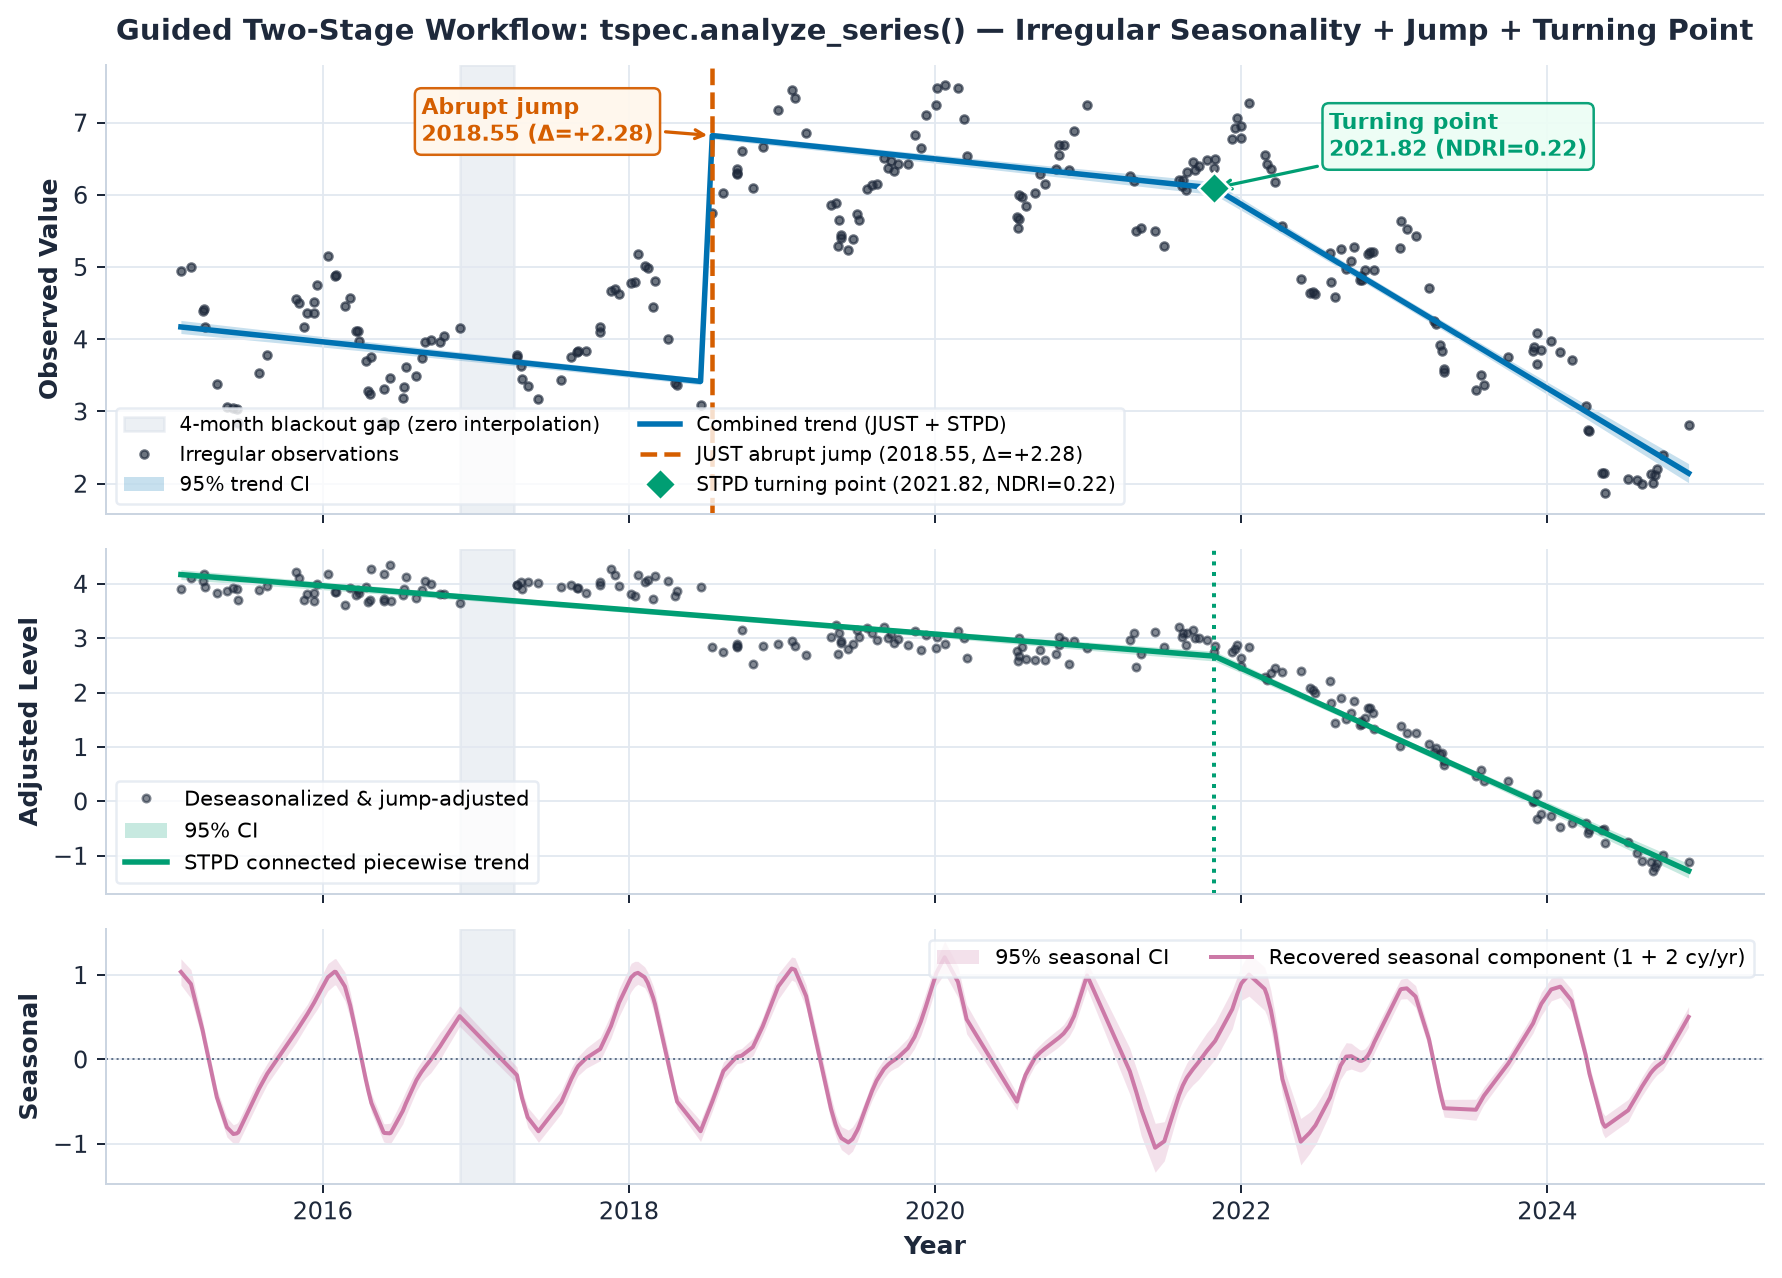
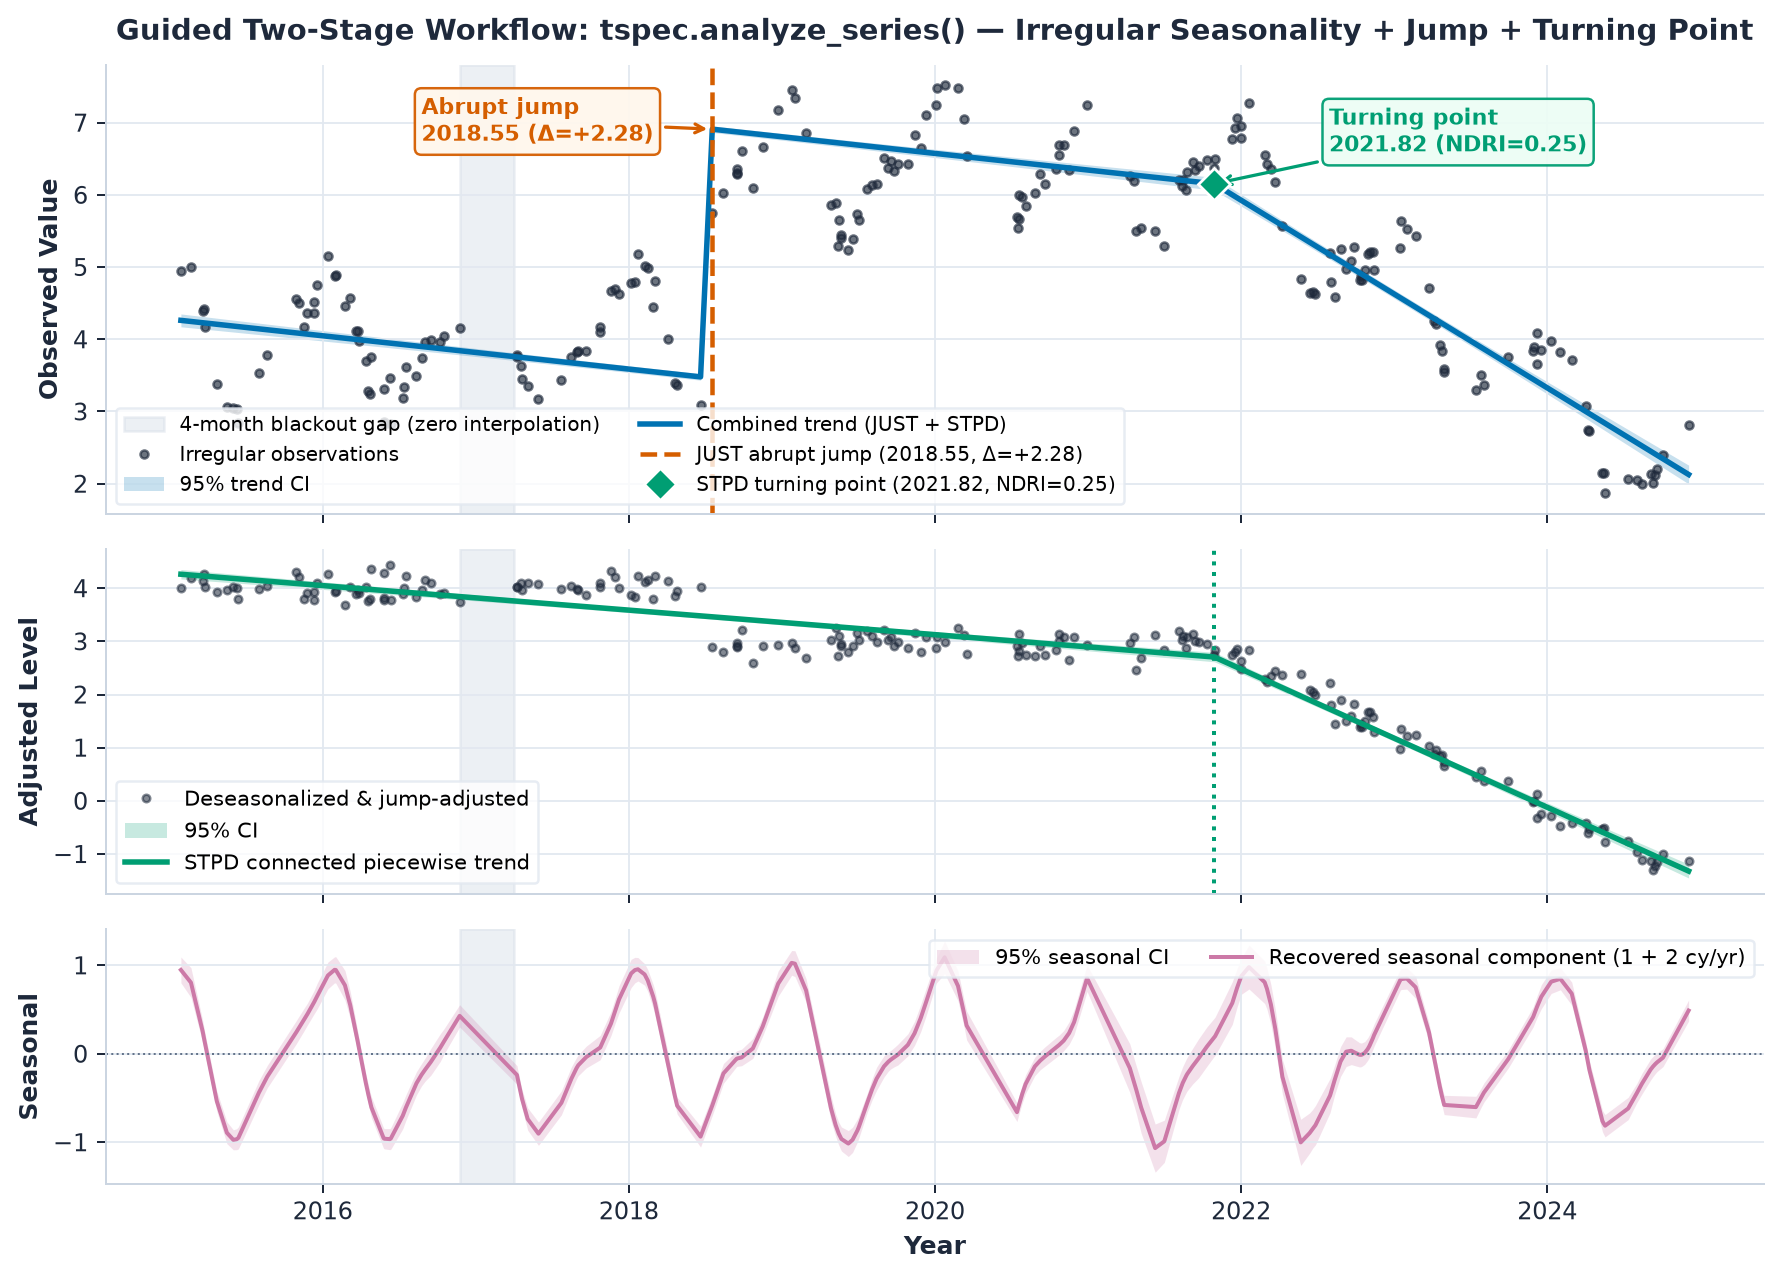
fix: eliminate irregular-grid seasonal sample-mean centering bias in just_decompose

diff --git a/src/tspec/just.py b/src/tspec/just.py
@@ -1449,11 +1449,14 @@ def _window_component_half_widths(
     is_obs_grid: bool = True,
     parity_mode: bool = False,
 ) -> tuple[FloatArray, FloatArray]:
-    """Compute pointwise Student-t half-widths for mean-shifted trend and centered seasonal.
+    """Compute pointwise Student-t half-widths for local trend and seasonal components.
 
-    Accounts exactly for the within-window zero-mean seasonal centering
-    (``trend_eff = trend + mean(seasonal)``, ``seasonal_eff = seasonal - mean(seasonal)``)
-    using the full parameter covariance ``cov`` from OLS/WLS or Huber/MM IRLS.
+    In ``parity_mode=True``, accounts for Ghaderpour's within-window sample-mean
+    seasonal shifting (``trend_eff = trend + mean(seasonal)``,
+    ``seasonal_eff = seasonal - mean(seasonal)``). In default mode
+    (``parity_mode=False``), pure sinusoidal harmonics already have analytical
+    cycle mean zero and are not sample-centered (preventing sampling-density
+    bias on irregular grids), so exact block covariances apply directly.
     """
     n_eval = int(t_eval.size)
     n_tr = 2 * (int(local_jumps.size) + 1)
@@ -1485,16 +1488,23 @@ def _window_component_half_widths(
         var_tr = np.maximum(0.0, np.sum((D_u @ cov) * D_u, axis=1))
         return t_crit * np.sqrt(var_tr), np.zeros(n_eval, dtype=np.float64)
 
+    D_tr = D_u[:, :n_tr]
     D_seas = D_u[:, n_tr:]
-    d_seas_mean = np.mean(D_seas, axis=0)
-    D_seas_cent = D_seas - d_seas_mean[None, :]
     cov_ss = cov[n_tr:, n_tr:]
-    var_seas = np.maximum(0.0, np.sum((D_seas_cent @ cov_ss) * D_seas_cent, axis=1))
 
-    D_tr_eff = np.empty_like(D_u)
-    D_tr_eff[:, :n_tr] = D_u[:, :n_tr]
-    D_tr_eff[:, n_tr:] = d_seas_mean[None, :]
-    var_tr = np.maximum(0.0, np.sum((D_tr_eff @ cov) * D_tr_eff, axis=1))
+    if parity_mode:
+        d_seas_mean = np.mean(D_seas, axis=0)
+        D_seas_cent = D_seas - d_seas_mean[None, :]
+        var_seas = np.maximum(0.0, np.sum((D_seas_cent @ cov_ss) * D_seas_cent, axis=1))
+
+        D_tr_eff = np.empty_like(D_u)
+        D_tr_eff[:, :n_tr] = D_tr
+        D_tr_eff[:, n_tr:] = d_seas_mean[None, :]
+        var_tr = np.maximum(0.0, np.sum((D_tr_eff @ cov) * D_tr_eff, axis=1))
+    else:
+        cov_tt = cov[:n_tr, :n_tr]
+        var_tr = np.maximum(0.0, np.sum((D_tr @ cov_tt) * D_tr, axis=1))
+        var_seas = np.maximum(0.0, np.sum((D_seas @ cov_ss) * D_seas, axis=1))
 
     return t_crit * np.sqrt(var_tr), t_crit * np.sqrt(var_seas)
 
@@ -1532,10 +1542,13 @@ def just_decompose(
     seasonality.
 
     Pointwise confidence intervals at level ``ci_level`` (default ``0.95``) are
-    computed analytically inside each window (accounting for zero-mean seasonal
-    centering) and blended across overlapping Gaussian windows via the
-    conservative Cauchy–Schwarz half-width blend so overlapping correlated
-    windows do not artificially shrink interval widths.
+    computed analytically inside each window and blended across overlapping
+    Gaussian windows via the conservative Cauchy–Schwarz half-width blend so
+    overlapping correlated windows do not artificially shrink interval widths.
+    In default mode (``parity_mode=False``), pure sinusoidal seasonal terms are
+    not sample-mean shifted onto the trend, eliminating seasonal-balance bias on
+    irregularly sampled timestamps (``parity_mode=True`` retains Ghaderpour's
+    sample-mean centering for exact upstream parity).
     """
     season_l = season.lower()
     if season_l not in ("allssa", "ols", "none"):
@@ -1775,9 +1788,10 @@ def just_decompose(
         win_freqs_list.append(freqs_w)
         season_t = _eval_seasonal(ty_loc, freqs_w, cs_coeff)
         trend_t = yy - season_t - rem_w
-        mean_s = float(np.mean(season_t))
-        trend_t = trend_t + mean_s
-        season_t = season_t - mean_s
+        if parity_mode:
+            mean_s = float(np.mean(season_t))
+            trend_t = trend_t + mean_s
+            season_t = season_t - mean_s
 
         hw_tr_w, hw_s_w = _window_component_half_widths(
             ty_loc,
@@ -1812,9 +1826,10 @@ def just_decompose(
                 ty_loc, tty_loc, local_j, tr_coeff, parity_mode=parity_mode
             )
             season_tt = _eval_seasonal(tty_loc, freqs_w, cs_coeff)
-            mean_s_tt = float(np.mean(season_tt))
-            trend_tt = trend_tt + mean_s_tt
-            season_tt = season_tt - mean_s_tt
+            if parity_mode:
+                mean_s_tt = float(np.mean(season_tt))
+                trend_tt = trend_tt + mean_s_tt
+                season_tt = season_tt - mean_s_tt
             hw_tr_tt, hw_s_tt = _window_component_half_widths(
                 ty_loc,
                 tty_loc,

diff --git a/tests/test_ci.py b/tests/test_ci.py
@@ -110,15 +110,19 @@ class TestJustDecomposeCI:
 
     def test_empirical_pointwise_coverage(self) -> None:
         rng = np.random.default_rng(2025)
-        t = np.linspace(2015.0, 2021.0, 120)
+        t = np.sort(rng.uniform(2015.0, 2021.0, 140))
         true_trend = 4.0 + 0.5 * (t - 2015.0)
         true_seas = 1.1 * np.cos(2 * np.pi * t) - 0.4 * np.sin(2 * np.pi * t)
-        true_seas -= np.mean(true_seas)
+
+        # Verify zero seasonal-balance bias on irregular grids in default mode
+        r_clean = just_decompose(t, true_trend + true_seas, season="ols", omega=[1.0])
+        np.testing.assert_allclose(r_clean.trend, true_trend, atol=1e-10)
+        np.testing.assert_allclose(r_clean.seasonal, true_seas, atol=1e-10)
 
         tr_hits = []
         s_hits = []
         for _ in range(80):
-            y = true_trend + true_seas + rng.normal(0.0, 0.3, t.size)
+            y = true_trend + true_seas + rng.normal(0.0, 0.35, t.size)
             res = just_decompose(t, y, season="ols", omega=[1.0], ci_level=0.95)
             assert res.trend_ci_low is not None and res.trend_ci_high is not None
             assert res.seasonal_ci_low is not None and res.seasonal_ci_high is not None

diff --git a/docs/guide/interpreting-results.md b/docs/guide/interpreting-results.md
@@ -49,7 +49,7 @@ Every trend, seasonal, and forecast estimator in `tspec` computes fast analytica
 
 | Function / Mode | Output Fields | Interval Formula |
 | :--- | :--- | :--- |
-| `just_decompose()` | `trend_ci_low/high`, `seasonal_ci_low/high` (plus `*_reg_ci_*` for `eval_times`) | Exact within-window Student-$t$ half-widths (accounting for zero-mean seasonal centering), combined across overlapping Gaussian windows via the conservative **Cauchy–Schwarz half-width blend**. |
+| `just_decompose()` | `trend_ci_low/high`, `seasonal_ci_low/high` (plus `*_reg_ci_*` for `eval_times`) | Exact within-window Student-$t$ half-widths (keeping pure zero-cycle-mean harmonics in default mode to avoid irregular-grid centering bias), blended across overlapping Gaussian windows via the conservative **Cauchy–Schwarz half-width blend**. |
 | `fit_piecewise_trend()` & `detect_turning_points()` | `trend_ci_low/high` on `PiecewiseTrendResult` | Exact $O(n)$ disjoint-support variance recursion for `mode="sequential"` (TPTR); exact $\mathbf{d}_i^T \widehat{\text{Cov}}\,\mathbf{d}_i$ for `mode="joint"` / `"huber"`; `None` for `mode="l1"`. |
 | `analyze_series()` | `trend_ci_low/high`, `decomposition.seasonal_ci_low/high`, and per-segment `slope_ci_low/high` | Exact analytical ribbons for `"ols"` and `"huber"`; **median-pivoted Sen/ATS slope-CI fans** (`MannKS` / Helsel convention) for `"sen"`; `None` for `"l1"`. |
 | `just_monitor()` | `forecast_ci_low/high` **and** `forecast_pi_low/high` | Inner band: mean forecast uncertainty (widens quadratically as forecast extrapolates past `start`). Outer band: out-of-sample observation **prediction interval** adding $\hat{\sigma}_{\text{his}}^2 / w_i$. |
@@ -57,6 +57,7 @@ Every trend, seasonal, and forecast estimator in `tspec` computes fast analytica
 !!! note "Statistical Interpretation & Caveats"
     - **Conditional pointwise bands:** Analytical intervals are **conditional on the detected breakpoints and selected seasonal frequencies** (post-selection breakpoint-location uncertainty is not folded into the analytical band). For heavily censored records, pair with `CensoredConfig(n_stability_draws=20)` to assess breakpoint stability.
     - **Autocorrelation:** Standard intervals assume independent residuals unless you supply an inverse-covariance weight matrix `weights = C_f^{-1}`. If `tspec` emits `MODERATE_AUTOCORRELATION` or `STRONG_AUTOCORRELATION`, analytical bands are optimistic (too narrow).
+    - **Theil–Sen bowtie fan (`slope_estimator="sen"`):** The plotted median-pivoted fan shows **slope uncertainty** (`seg.slope_ci_low/high`) around each segment's median point $(t_{\text{med}}, \hat{y}_{\text{med}})$—pinching to zero width at $t_{\text{med}}$—rather than vertical intercept uncertainty.
     - **Why `mode="l1"` returns `None`:** Exact linear-programming $L_1$ (LAD) regression has no closed-form finite-sample covariance without density estimation or resampling. Rather than showing misleading parametric error bars, `tspec` returns `None`—use `slope_estimator="sen"` or `"huber"` when you want robust CIs.
 
 ### Example 1: JUST Decomposition Trend & Seasonal 95% CIs

diff --git a/docs/reference/math.md b/docs/reference/math.md
@@ -113,9 +113,9 @@ ALLSSA iteratively extracts significant sinusoids simultaneously with the trend 
 
 All pointwise intervals at nominal level $1 - \alpha = \text{ci\_level}$ are conditional on the detected breakpoints and selected harmonic frequencies and assume independent residuals unless a full inverse-covariance weight matrix $P = C_f^{-1}$ is supplied:
 
-1. **JUST Decomposition (`just_decompose`):** Within each local window $m$ with unscaled parameter covariance $\hat{\Sigma}_m$ (from WLS or Huber/MM IRLS) and seasonal design matrix $D_{\text{seas}}$ having column mean $\bar{\mathbf{d}}_{\text{seas}}$, subtracting $\bar{s}_m = \text{mean}(\hat{S}_m)$ from the seasonal component and adding it onto the trend yields exact centered component variances:
-   $$\widehat{\text{Var}}(\hat{S}_m(t_i)) = \bigl(D_{\text{seas}}^{\text{cent}} \hat{\Sigma}_{m,SS} (D_{\text{seas}}^{\text{cent}})^T\bigr)_{ii}, \qquad D_{\text{seas}}^{\text{cent}} = D_{\text{seas}} - \mathbf{1}\bar{\mathbf{d}}_{\text{seas}}^T,$$
-   $$\widehat{\text{Var}}(\hat{T}_m(t_i)) = \bigl(D_{\text{tr,eff}} \hat{\Sigma}_m D_{\text{tr,eff}}^T\bigr)_{ii}, \qquad D_{\text{tr,eff}} = \bigl[D_{\text{tr}},\; \mathbf{1}\bar{\mathbf{d}}_{\text{seas}}^T\bigr].$$
+1. **JUST Decomposition (`just_decompose`):** Within each local window $m$ with unscaled parameter covariance $\hat{\Sigma}_m$ (from WLS or Huber/MM IRLS), default mode (`parity_mode=False`) keeps the fitted pure sinusoids $\hat{S}_m(t) = D_{\text{seas}} \hat{c}_S$ unshifted (preventing seasonal-balance bias on irregular timestamps where windows contain unequal summer/winter counts), giving exact block variances:
+   $$\widehat{\text{Var}}(\hat{T}_m(t_i)) = \bigl(D_{\text{tr}} \hat{\Sigma}_{m,TT} D_{\text{tr}}^T\bigr)_{ii}, \qquad \widehat{\text{Var}}(\hat{S}_m(t_i)) = \bigl(D_{\text{seas}} \hat{\Sigma}_{m,SS} D_{\text{seas}}^T\bigr)_{ii}.$$
+   In `parity_mode=True` (Ghaderpour's within-window sample-mean centering $\hat{T}_m \leftarrow \hat{T}_m + \bar{s}_m$, $\hat{S}_m \leftarrow \hat{S}_m - \bar{s}_m$), the variance uses the centered seasonal basis $D_{\text{seas}}^{\text{cent}} = D_{\text{seas}} - \mathbf{1}\bar{\mathbf{d}}_{\text{seas}}^T$ and shifted trend basis $D_{\text{tr,eff}} = [D_{\text{tr}},\, \mathbf{1}\bar{\mathbf{d}}_{\text{seas}}^T]$.
    Because adjacent Gaussian windows share overlapping observations (positive correlation), per-window half-widths $\text{hw}_m(t_i) = t_{1-\alpha/2,\, n_w - n_c}\sqrt{\widehat{\text{Var}}_m(t_i)}$ are combined using the conservative **Cauchy–Schwarz upper-bound blend**:
    $$\text{hw}(t_i) = \frac{\sum_m g_m(t_i)\,\text{hw}_m(t_i)}{\sum_m g_m(t_i)},$$
    preventing artificial variance shrinkage across correlated windows.
